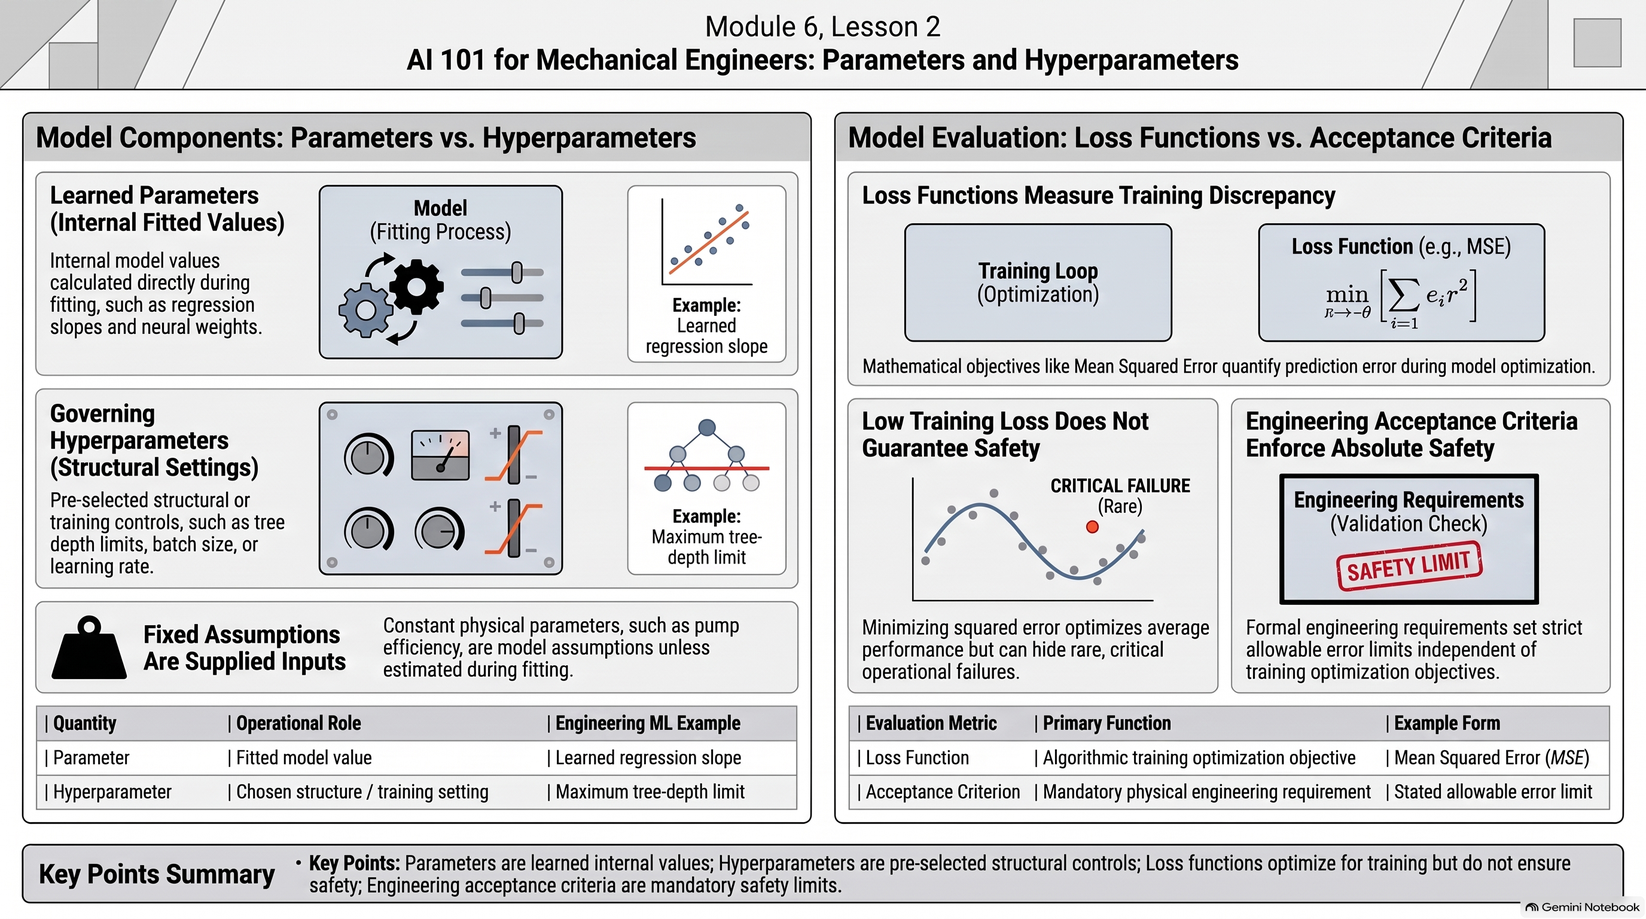
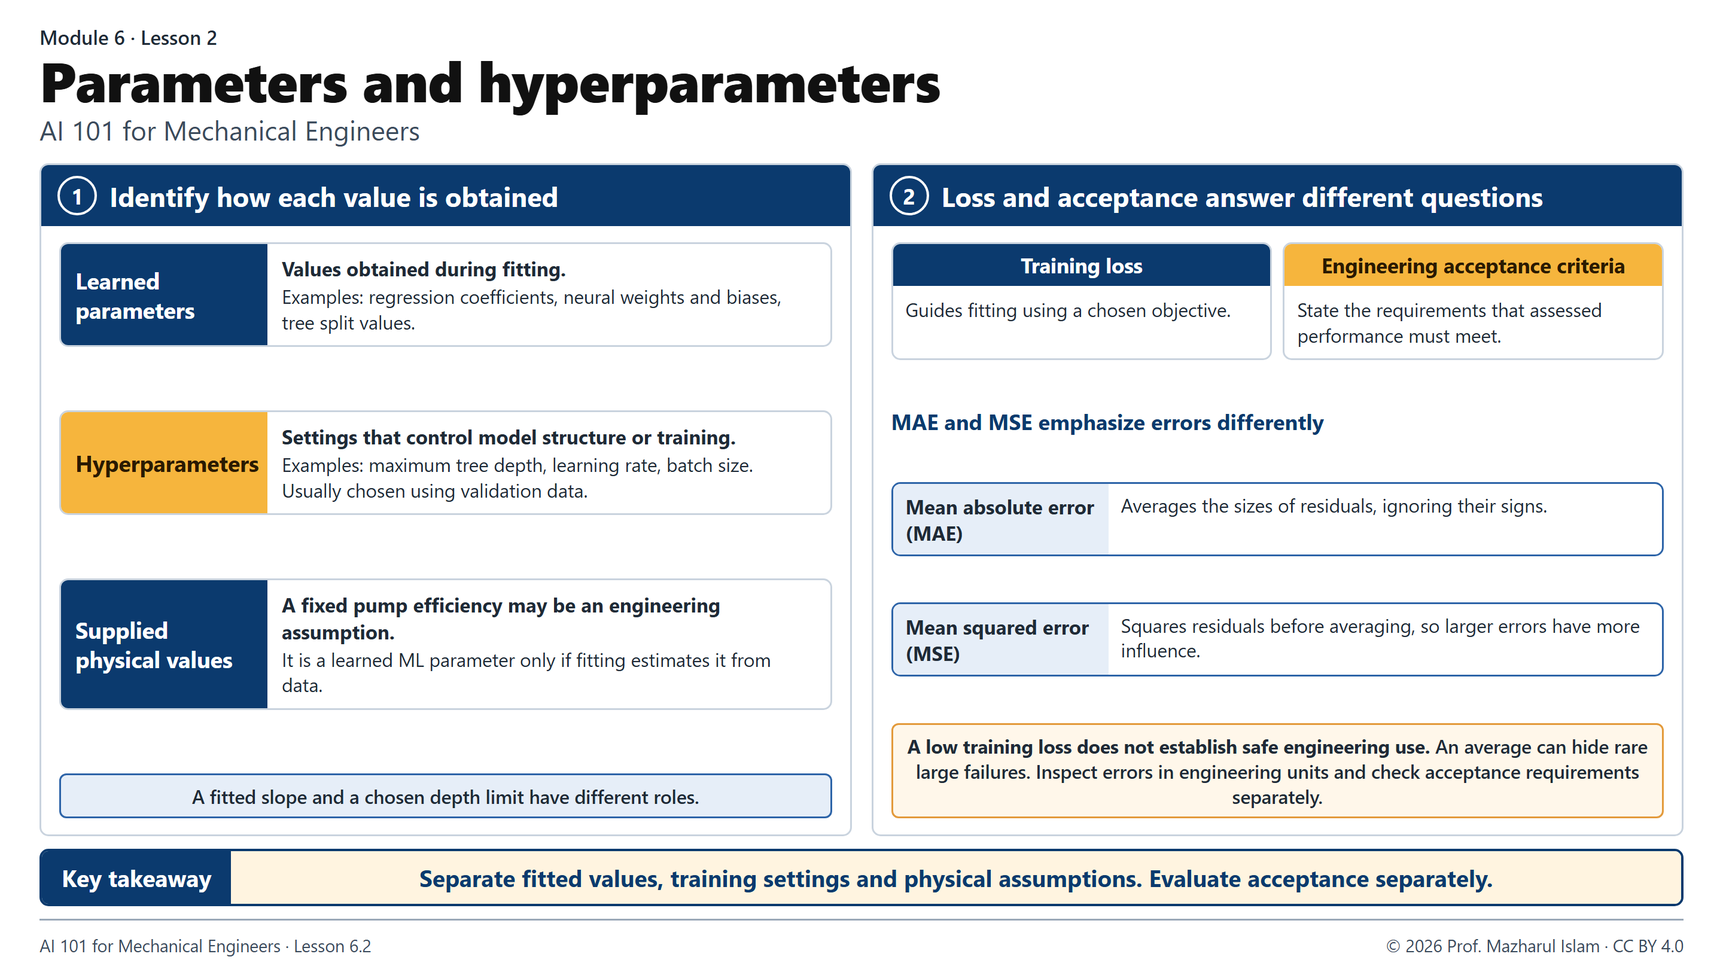
AI 101 Module 6: replace lesson infographics with revised versions
Rebuilt the Lesson 6.1-6.3 infographics in the shared exact-text template:
copyright/licence footer restored, numbered panels, fit/predict code added in
6.1, inspecting errors in engineering units noted in 6.2, and "using the
baseline is a valid decision" added in 6.3. Updated image alt text.

diff --git a/AI101/AI_101_for_Mechanical_Engineers.html b/AI101/AI_101_for_Mechanical_Engineers.html
@@ -148,7 +148,7 @@ h.append(E('h3',{text:'Gemini Notebook'}),E('p',{},E('a',{href:review.mindMap,ta
 h.append(E('h3',{text:'Flashcards'}));deck(h,m.id);h.append(E('div',{class:'actions'},link('Proceed to Quiz',`#/m/${m.num}/quiz`,'btn primary')));
 }
 function modulePage(h,r){let m=MODS[r.n-1];title(h,'Module '+m.num+' / 16',m.title);let tabs=E('nav',{'aria-label':'Module sections',class:'tabs'});m.lessons.forEach((l,i)=>tabs.append(link((P.lessons[l.id]?'✓ ':'')+(i+1)+'. '+l.title,`#/m/${m.num}/${i+1}`,r.sub===String(i+1)?'active':'')));if(WALK[m.id])tabs.append(link('Code',`#/m/${m.num}/code`,r.sub==='code'?'active':''));tabs.append(link('Review',`#/m/${m.num}/review`,['review','cards'].includes(r.sub)?'active':''),link('Quiz',`#/m/${m.num}/quiz`,r.sub==='quiz'?'active':''));h.append(tabs);if(r.sub==='quiz'){let region=E('div');h.append(region);quiz(region,m.id);return;}if(r.sub==='code'){codePage(h,m);return;}if(['review','cards'].includes(r.sub)){moduleReview(h,m);return;}let l=m.lessons[+r.sub-1];h.append(E('h2',{text:l.title}));let outcomes=E('details',{},E('summary',{text:'Module learning outcomes'}));let ul=E('ul');m.outcomes.forEach(o=>ul.append(E('li',{text:o})));outcomes.append(ul);h.append(outcomes);prose(h,l.text);
-const media={m01l1:{video:'5PXqVJoDBgI',audio:'media/1_1-The_Math_Behind_Industrial_AI.m4a',image:'media/1_1-Relationships_Among_AI_Concepts.png',alt:'Lesson 1.1 infographic: AI contains machine learning, which contains deep learning; classification predicts a category while generation produces content; different components need different checks; data science runs from measure and clean to analyse, model and communicate'},m01l2:{video:'FSDlKaTM3Ws',audio:'media/1_2-How_Engineers_Distinguish_AI_From_Automation.m4a',image:'media/1_2-Automation_and_AI_Engineering_Concepts.png',alt:'Lesson 1.2 infographic: a fixed-rule thermostat example of automation; robots sense, decide and act using conventional control, AI or both; narrow AI compared with proposed AGI; five questions on inputs, learned components, outputs, permitted actions and failure consequences'},m01l3:{video:'MOJL4aPNaBY',audio:'media/1_3-Engineering_Decisions_Must_Come_Before_AI.m4a',image:'media/1_3-Defining_an_Engineering_Decision.png',alt:'Lesson 1.3 infographic: deciding whether to request a pump inspection, from measurements through a learned detector, fault score, engineering review and decision; a score is an estimate; operating domain and escalation path; limits of synthetic examples'},m02l1:{video:'ND8u7CSiTqs',audio:'media/2_1-Why_Mechanical_Engineering_Needs_Hybrid_AI.m4a',image:'media/2_1.png',alt:'Lesson 2.1 infographic: physics-based, data-driven and hybrid models compared; pump example with hydraulic power 100,000 Pa × 0.02 m³/s = 2,000 W and input power 2,000 W / 0.8 = 2,500 W; residual r = 2,800 W − 2,500 W = +300 W shows a difference but not its cause'},m02l2:{video:'p4ldXqJdehc',audio:'media/2_2-Why_Mechanical_Engineers_Need_Hybrid_AI.m4a',image:'media/2_2.png',alt:'Lesson 2.2 infographic: table matching prediction, forecasting, diagnosis, control and optimization to what each does and an example; ML training optimization changes model parameters to reduce loss, while engineering optimization changes design or operating variables within physical constraints'},m02l3:{video:'Ldz3IBLDv_Y',audio:'media/2_3-How_Mechanical_Engineers_Use_AI.m4a',image:'media/2_3.png',alt:'Lesson 2.3 infographic: start with the simplest adequate method; when ML might help; four checks of purpose, inputs, baseline and coverage; hybrid pump example with a +300 W residual; compare with the baseline before adding complexity'},m03l1:{video:'bUh9kmRi0_g',audio:'media/3_1-Mapping_Heavy_Machinery_to_Machine_Learning.m4a',image:'media/3_1.png',alt:'Lesson 3.1 infographic: dataset, sample, features, target and label; a pump-test table with flow, pressure rise and shaft speed as features X and measured electrical power as target y; X has shape (120, 3) and y has shape (120,); keep each row matched by test ID'},m03l2:{video:'N0vvkVlTw2o',audio:'media/3_2-Why_Engineering_AI_Needs_Sensor_Metadata.m4a',image:'media/3_2.png',alt:'Lesson 3.2 infographic: metadata such as units, sensor ID, calibration and sampling frequency; raw readings versus a windowed RMS feature; machine IDs and ordinal or nominal categories are not measurements; ground truth is a reference that can contain errors'},m03l3:{video:'O9RXTf5J5-s',audio:'media/3_3-Why_Predictive_AI_Fails_Without_Physics.m4a',image:'media/3_3.png',alt:'Lesson 3.3 infographic: a timeline showing that a repair code recorded after a failure is information leakage for an earlier warning; correlation, prediction and causation compared using flow rate and motor current'},m04l1:{video:'rfXJ_JKeYUs',audio:'media/4_1.m4a',image:'media/4_1.png',alt:'Lesson 4.1 infographic: supervised learning with regression and classification; unsupervised clustering, where a cluster is not automatically a fault category; anomaly alerts that need investigation and independent evidence; semi-supervised learning'},m04l2:{video:'C5h-mjjw18o',audio:'media/4_2.m4a',image:'media/4_2.png',alt:'Lesson 4.2 infographic: masked-signal reconstruction in four steps of observation, constructed input, constructed target and objective; a neural network can use supervised, self-supervised or reinforcement feedback, so architecture does not determine the learning setup'},m04l3:{video:'fgg8jxrDiJw',audio:'media/4_3.m4a',image:'media/4_3.png',alt:'Lesson 4.3 infographic: agent and simulated environment exchanging actions, state and reward; thermal-control example mapping state, action, environment, reward and policy; reward and safety constraints kept separate, beginning with bounded simulation'},m05l1:{video:'0xyZPsXtMyY',audio:'media/5_1.m4a',image:'media/5_1.png',alt:'Lesson 5.1 infographic: warning signs such as negative absolute pressure, duplicate timestamps and mixed W and kW; investigate missing readings before imputing; mean imputation of 20, 22, missing, 24 gives 22, which reduces visible variation; learn replacement values from training data only'},m05l2:{video:'DM1sfD_7cyk',audio:'media/5_2.m4a',image:'media/5_2.png',alt:'Lesson 5.2 infographic: min-max scaling with 25 °C in bounds 0–100 °C giving 0.25; standardization with x = 60 °C, training mean 40 °C and standard deviation 10 °C giving z = 2; one-hot encoding of categories A, B and C; fit on training data and apply stored rules'},m05l3:{video:'6oYBKyxmUFc',audio:'media/5_3.m4a',image:'media/5_3.png',alt:'Lesson 5.3 infographic: build features such as hydraulic power P_h = Δp × Q from engineering knowledge; exclude readings after prediction time; split, fit on training folds, store and apply without refitting; record the input contract of units, missing-value rules and derived features'},m06l1:{video:'M3Wq88DQj0s',audio:'media/6_1.m4a',image:'media/6_1.png',alt:'Model, learning algorithm, training, inference and retraining infographic'},m06l2:{video:'4SjSZjJOXro',audio:'media/6_2.m4a',image:'media/6_2.png',alt:'Parameters, hyperparameters, loss functions and engineering acceptance criteria infographic'},m06l3:{video:'RSWwn7m9Ph4',audio:'media/6_3.m4a',image:'media/6_3.png',alt:'Fair baselines, reproducibility, random seeds and procedural limits infographic'},m07l1:{video:'M8Mqp4O3bAs',audio:'media/7_1.m4a',image:'media/7_1.png',alt:'Linear regression coefficients, units, prediction and residual infographic'},m07l2:{video:'uvZOy3Jhj5Y',audio:'media/7_2.m4a',image:'media/7_2.png',alt:'Regression metrics, residual analysis and evaluation limits infographic'},m07l3:{video:'2Czwc72Fchc',audio:'media/7_3.m4a',image:'media/7_3.png',alt:'Minimal regression workflow, baselines, evaluation and reporting infographic'},m08l1:{video:'NKojhzCHcZE',audio:'media/8_1.m4a',image:'media/8_1.png',alt:'Classification scores, thresholds, calibration and confusion-matrix outcomes infographic'},m08l2:{video:'zOTYwt-Tr54',audio:'media/8_2.m4a',image:'media/8_2.png',alt:'Classification metrics, fault-detection questions and operating thresholds infographic'},m08l3:{video:'b0OM6lczsRk',audio:'media/8_3.m4a',image:'media/8_3.png',alt:'Class imbalance, detector evaluation and deployment consequences infographic'},m09l1:{video:'y80ne8Vybo4',audio:'media/9_1.m4a',image:'media/9_1.png',alt:'Regression, nearest-neighbour and support-vector classification methods infographic'},m09l2:{video:'2YmEhBzF2MY',audio:'media/9_2.m4a',image:'media/9_2.png',alt:'Decision trees, random forests, boosting and validation limits infographic'},m09l3:{video:'9APUCDA6pVk',audio:'media/9_3.m4a',image:'media/9_3.png',alt:'Clustering, principal component analysis, scaling and fair candidate comparison infographic'},m10l1:{video:'B279XXNadbY',audio:'media/10_1.m4a',image:'media/10_1.png',alt:'Training, validation, final test boundaries and leakage prevention infographic'},m10l2:{video:'uMrToW1n1Vg',audio:'media/10_2.m4a',image:'media/10_2.png',alt:'Underfitting, overfitting, regularization and early stopping infographic'},m10l3:{video:'ZQJwwFjbULQ',audio:'media/10_3.m4a',image:'media/10_3.png',alt:'Preprocessing, temporal, target-derived leakage and reproducible evaluation infographic'},m11l1:{video:'6kmxgxU5OtU',audio:'media/11_1.m4a',image:'media/11_1.png',alt:'Neuron weighted sums, ReLU activation and nonlinear layer composition infographic'},m11l2:{video:'HpPJ6ckgXU4',audio:'media/11_2.m4a',image:'media/11_2.png',alt:'Loss, backpropagation, gradients and parameter updates infographic'},m11l3:{video:'yGjRY3dHNCw',audio:'media/11_3.m4a',image:'media/11_3.png',alt:'Batches, epochs, validation checkpoints and generalization limits infographic'},m12l1:{video:'3mFpYxI7084',audio:'media/12_1.m4a',image:'media/12_1.png',alt:'Data representations, architecture selection and component-level holdout infographic'},m12l2:{video:'iQtAabOUAOw',audio:'media/12_2.m4a',image:'media/12_2.png',alt:'Sequence architectures, attention mechanisms and forecast issue-time boundaries infographic'},m12l3:{video:'o1sjsbKAx9c',audio:'media/12_3.m4a',image:'media/12_3.png',alt:'Signal windowing, timestamp integrity, forecast horizons and temporal leakage prevention infographic'},m13l1:{video:'5BVmXgZNgpg',audio:'media/13_1.m4a',image:'media/13_1.png',alt:'Generative model categories and engineering evidence limits infographic'},m13l2:{video:'Se06_TxJul8',audio:'media/13_2.m4a',image:'media/13_2.png',alt:'Tokens, context windows, embeddings and technical disambiguation limits infographic'},m13l3:{video:'XoYcvrMW2y8',audio:'media/13_3.m4a',image:'media/13_3.png',alt:'Pretraining, fine-tuning and transfer learning versus temporary prompting and retrieval context infographic'},m14l1:{video:'1XHxHqd6P0k',audio:'media/14_1.m4a',image:'media/14_1.png',alt:'Engineering prompt structure and verification infographic'},m14l2:{video:'7oluOfQTwac',audio:'media/14_2.m4a',image:'media/14_2.png',alt:'Retrieval-augmented generation, evidence checks and inference-time context infographic'},m14l3:{video:'-ZsxFY5h02I',audio:'media/14_3.m4a',image:'media/14_3.png',alt:'Engineering tools, APIs, agent coordination and human oversight infographic'},m15l1:{video:'dNbzZDsyR_I',audio:'media/15_1.m4a',image:'media/15_1.png',alt:'Aleatoric and epistemic uncertainty, operating coverage, calibration, distribution shift and drift infographic'},m15l2:{video:'ZDOon3TWimU',audio:'media/15_2.m4a',image:'media/15_2.png',alt:'Verification versus validation, independent physical evidence, provenance and reproducibility infographic'},m15l3:{video:'Kg4aBcgdeC8',audio:'media/15_3.m4a',image:'media/15_3.png',alt:'Output verification, privacy and security, human oversight, disclosure and resource responsibility infographic'},m16l1:{video:'9Q3hvMOewXg',audio:'media/16_1.m4a',image:'media/16_1.png',alt:'Engineering application evidence needs, surrogate models, optimization, digital twins and physics-informed learning infographic'},m16l2:{video:'O-9Nl2pD5po',audio:'media/16_2.m4a',image:'media/16_2.png',alt:'Mini-project scoping, data provenance, fair evaluation, baselines, metrics and reproducibility infographic'},m16l3:{video:'59A56rQ40ts',audio:'media/16_3.m4a',image:'media/16_3.png',alt:'Browser knowledge score versus practical evidence, mini-project rubric, reproducibility and responsible AI-use infographic'}};
+const media={m01l1:{video:'5PXqVJoDBgI',audio:'media/1_1-The_Math_Behind_Industrial_AI.m4a',image:'media/1_1-Relationships_Among_AI_Concepts.png',alt:'Lesson 1.1 infographic: AI contains machine learning, which contains deep learning; classification predicts a category while generation produces content; different components need different checks; data science runs from measure and clean to analyse, model and communicate'},m01l2:{video:'FSDlKaTM3Ws',audio:'media/1_2-How_Engineers_Distinguish_AI_From_Automation.m4a',image:'media/1_2-Automation_and_AI_Engineering_Concepts.png',alt:'Lesson 1.2 infographic: a fixed-rule thermostat example of automation; robots sense, decide and act using conventional control, AI or both; narrow AI compared with proposed AGI; five questions on inputs, learned components, outputs, permitted actions and failure consequences'},m01l3:{video:'MOJL4aPNaBY',audio:'media/1_3-Engineering_Decisions_Must_Come_Before_AI.m4a',image:'media/1_3-Defining_an_Engineering_Decision.png',alt:'Lesson 1.3 infographic: deciding whether to request a pump inspection, from measurements through a learned detector, fault score, engineering review and decision; a score is an estimate; operating domain and escalation path; limits of synthetic examples'},m02l1:{video:'ND8u7CSiTqs',audio:'media/2_1-Why_Mechanical_Engineering_Needs_Hybrid_AI.m4a',image:'media/2_1.png',alt:'Lesson 2.1 infographic: physics-based, data-driven and hybrid models compared; pump example with hydraulic power 100,000 Pa × 0.02 m³/s = 2,000 W and input power 2,000 W / 0.8 = 2,500 W; residual r = 2,800 W − 2,500 W = +300 W shows a difference but not its cause'},m02l2:{video:'p4ldXqJdehc',audio:'media/2_2-Why_Mechanical_Engineers_Need_Hybrid_AI.m4a',image:'media/2_2.png',alt:'Lesson 2.2 infographic: table matching prediction, forecasting, diagnosis, control and optimization to what each does and an example; ML training optimization changes model parameters to reduce loss, while engineering optimization changes design or operating variables within physical constraints'},m02l3:{video:'Ldz3IBLDv_Y',audio:'media/2_3-How_Mechanical_Engineers_Use_AI.m4a',image:'media/2_3.png',alt:'Lesson 2.3 infographic: start with the simplest adequate method; when ML might help; four checks of purpose, inputs, baseline and coverage; hybrid pump example with a +300 W residual; compare with the baseline before adding complexity'},m03l1:{video:'bUh9kmRi0_g',audio:'media/3_1-Mapping_Heavy_Machinery_to_Machine_Learning.m4a',image:'media/3_1.png',alt:'Lesson 3.1 infographic: dataset, sample, features, target and label; a pump-test table with flow, pressure rise and shaft speed as features X and measured electrical power as target y; X has shape (120, 3) and y has shape (120,); keep each row matched by test ID'},m03l2:{video:'N0vvkVlTw2o',audio:'media/3_2-Why_Engineering_AI_Needs_Sensor_Metadata.m4a',image:'media/3_2.png',alt:'Lesson 3.2 infographic: metadata such as units, sensor ID, calibration and sampling frequency; raw readings versus a windowed RMS feature; machine IDs and ordinal or nominal categories are not measurements; ground truth is a reference that can contain errors'},m03l3:{video:'O9RXTf5J5-s',audio:'media/3_3-Why_Predictive_AI_Fails_Without_Physics.m4a',image:'media/3_3.png',alt:'Lesson 3.3 infographic: a timeline showing that a repair code recorded after a failure is information leakage for an earlier warning; correlation, prediction and causation compared using flow rate and motor current'},m04l1:{video:'rfXJ_JKeYUs',audio:'media/4_1.m4a',image:'media/4_1.png',alt:'Lesson 4.1 infographic: supervised learning with regression and classification; unsupervised clustering, where a cluster is not automatically a fault category; anomaly alerts that need investigation and independent evidence; semi-supervised learning'},m04l2:{video:'C5h-mjjw18o',audio:'media/4_2.m4a',image:'media/4_2.png',alt:'Lesson 4.2 infographic: masked-signal reconstruction in four steps of observation, constructed input, constructed target and objective; a neural network can use supervised, self-supervised or reinforcement feedback, so architecture does not determine the learning setup'},m04l3:{video:'fgg8jxrDiJw',audio:'media/4_3.m4a',image:'media/4_3.png',alt:'Lesson 4.3 infographic: agent and simulated environment exchanging actions, state and reward; thermal-control example mapping state, action, environment, reward and policy; reward and safety constraints kept separate, beginning with bounded simulation'},m05l1:{video:'0xyZPsXtMyY',audio:'media/5_1.m4a',image:'media/5_1.png',alt:'Lesson 5.1 infographic: warning signs such as negative absolute pressure, duplicate timestamps and mixed W and kW; investigate missing readings before imputing; mean imputation of 20, 22, missing, 24 gives 22, which reduces visible variation; learn replacement values from training data only'},m05l2:{video:'DM1sfD_7cyk',audio:'media/5_2.m4a',image:'media/5_2.png',alt:'Lesson 5.2 infographic: min-max scaling with 25 °C in bounds 0–100 °C giving 0.25; standardization with x = 60 °C, training mean 40 °C and standard deviation 10 °C giving z = 2; one-hot encoding of categories A, B and C; fit on training data and apply stored rules'},m05l3:{video:'6oYBKyxmUFc',audio:'media/5_3.m4a',image:'media/5_3.png',alt:'Lesson 5.3 infographic: build features such as hydraulic power P_h = Δp × Q from engineering knowledge; exclude readings after prediction time; split, fit on training folds, store and apply without refitting; record the input contract of units, missing-value rules and derived features'},m06l1:{video:'M3Wq88DQj0s',audio:'media/6_1.m4a',image:'media/6_1.png',alt:'Lesson 6.1 infographic: a linear model ŷ = b0 + b1·x maps input to prediction while a learning algorithm such as least squares fits its parameters; training, inference and retraining are separate; worked example ŷ = 2 + 3 × 4 = 14'},m06l2:{video:'4SjSZjJOXro',audio:'media/6_2.m4a',image:'media/6_2.png',alt:'Lesson 6.2 infographic: learned parameters, hyperparameters and supplied physical values have different roles; training loss differs from engineering acceptance criteria; MAE and MSE weight errors differently, and a low training loss does not establish safe use'},m06l3:{video:'RSWwn7m9Ph4',audio:'media/6_3.m4a',image:'media/6_3.png',alt:'Lesson 6.3 infographic: compare with a fair baseline on the same examples; the physical baseline MAE of 0.8 kW beats the ML model MAE of 1.2 kW; record the context of a result; a random seed helps repeat a procedure but does not prove accuracy'},m07l1:{video:'M8Mqp4O3bAs',audio:'media/7_1.m4a',image:'media/7_1.png',alt:'Linear regression coefficients, units, prediction and residual infographic'},m07l2:{video:'uvZOy3Jhj5Y',audio:'media/7_2.m4a',image:'media/7_2.png',alt:'Regression metrics, residual analysis and evaluation limits infographic'},m07l3:{video:'2Czwc72Fchc',audio:'media/7_3.m4a',image:'media/7_3.png',alt:'Minimal regression workflow, baselines, evaluation and reporting infographic'},m08l1:{video:'NKojhzCHcZE',audio:'media/8_1.m4a',image:'media/8_1.png',alt:'Classification scores, thresholds, calibration and confusion-matrix outcomes infographic'},m08l2:{video:'zOTYwt-Tr54',audio:'media/8_2.m4a',image:'media/8_2.png',alt:'Classification metrics, fault-detection questions and operating thresholds infographic'},m08l3:{video:'b0OM6lczsRk',audio:'media/8_3.m4a',image:'media/8_3.png',alt:'Class imbalance, detector evaluation and deployment consequences infographic'},m09l1:{video:'y80ne8Vybo4',audio:'media/9_1.m4a',image:'media/9_1.png',alt:'Regression, nearest-neighbour and support-vector classification methods infographic'},m09l2:{video:'2YmEhBzF2MY',audio:'media/9_2.m4a',image:'media/9_2.png',alt:'Decision trees, random forests, boosting and validation limits infographic'},m09l3:{video:'9APUCDA6pVk',audio:'media/9_3.m4a',image:'media/9_3.png',alt:'Clustering, principal component analysis, scaling and fair candidate comparison infographic'},m10l1:{video:'B279XXNadbY',audio:'media/10_1.m4a',image:'media/10_1.png',alt:'Training, validation, final test boundaries and leakage prevention infographic'},m10l2:{video:'uMrToW1n1Vg',audio:'media/10_2.m4a',image:'media/10_2.png',alt:'Underfitting, overfitting, regularization and early stopping infographic'},m10l3:{video:'ZQJwwFjbULQ',audio:'media/10_3.m4a',image:'media/10_3.png',alt:'Preprocessing, temporal, target-derived leakage and reproducible evaluation infographic'},m11l1:{video:'6kmxgxU5OtU',audio:'media/11_1.m4a',image:'media/11_1.png',alt:'Neuron weighted sums, ReLU activation and nonlinear layer composition infographic'},m11l2:{video:'HpPJ6ckgXU4',audio:'media/11_2.m4a',image:'media/11_2.png',alt:'Loss, backpropagation, gradients and parameter updates infographic'},m11l3:{video:'yGjRY3dHNCw',audio:'media/11_3.m4a',image:'media/11_3.png',alt:'Batches, epochs, validation checkpoints and generalization limits infographic'},m12l1:{video:'3mFpYxI7084',audio:'media/12_1.m4a',image:'media/12_1.png',alt:'Data representations, architecture selection and component-level holdout infographic'},m12l2:{video:'iQtAabOUAOw',audio:'media/12_2.m4a',image:'media/12_2.png',alt:'Sequence architectures, attention mechanisms and forecast issue-time boundaries infographic'},m12l3:{video:'o1sjsbKAx9c',audio:'media/12_3.m4a',image:'media/12_3.png',alt:'Signal windowing, timestamp integrity, forecast horizons and temporal leakage prevention infographic'},m13l1:{video:'5BVmXgZNgpg',audio:'media/13_1.m4a',image:'media/13_1.png',alt:'Generative model categories and engineering evidence limits infographic'},m13l2:{video:'Se06_TxJul8',audio:'media/13_2.m4a',image:'media/13_2.png',alt:'Tokens, context windows, embeddings and technical disambiguation limits infographic'},m13l3:{video:'XoYcvrMW2y8',audio:'media/13_3.m4a',image:'media/13_3.png',alt:'Pretraining, fine-tuning and transfer learning versus temporary prompting and retrieval context infographic'},m14l1:{video:'1XHxHqd6P0k',audio:'media/14_1.m4a',image:'media/14_1.png',alt:'Engineering prompt structure and verification infographic'},m14l2:{video:'7oluOfQTwac',audio:'media/14_2.m4a',image:'media/14_2.png',alt:'Retrieval-augmented generation, evidence checks and inference-time context infographic'},m14l3:{video:'-ZsxFY5h02I',audio:'media/14_3.m4a',image:'media/14_3.png',alt:'Engineering tools, APIs, agent coordination and human oversight infographic'},m15l1:{video:'dNbzZDsyR_I',audio:'media/15_1.m4a',image:'media/15_1.png',alt:'Aleatoric and epistemic uncertainty, operating coverage, calibration, distribution shift and drift infographic'},m15l2:{video:'ZDOon3TWimU',audio:'media/15_2.m4a',image:'media/15_2.png',alt:'Verification versus validation, independent physical evidence, provenance and reproducibility infographic'},m15l3:{video:'Kg4aBcgdeC8',audio:'media/15_3.m4a',image:'media/15_3.png',alt:'Output verification, privacy and security, human oversight, disclosure and resource responsibility infographic'},m16l1:{video:'9Q3hvMOewXg',audio:'media/16_1.m4a',image:'media/16_1.png',alt:'Engineering application evidence needs, surrogate models, optimization, digital twins and physics-informed learning infographic'},m16l2:{video:'O-9Nl2pD5po',audio:'media/16_2.m4a',image:'media/16_2.png',alt:'Mini-project scoping, data provenance, fair evaluation, baselines, metrics and reproducibility infographic'},m16l3:{video:'59A56rQ40ts',audio:'media/16_3.m4a',image:'media/16_3.png',alt:'Browser knowledge score versus practical evidence, mini-project rubric, reproducibility and responsible AI-use infographic'}};
 let extra=media[l.id];if(extra){
 let box=E('section',{class:'learning-media','aria-label':'Lesson learning resources'});
 const resourceLink=(text,href,download=false)=>E('a',{href,target:'_blank',rel:'noopener',...(download?{download:''}:{}),text});
